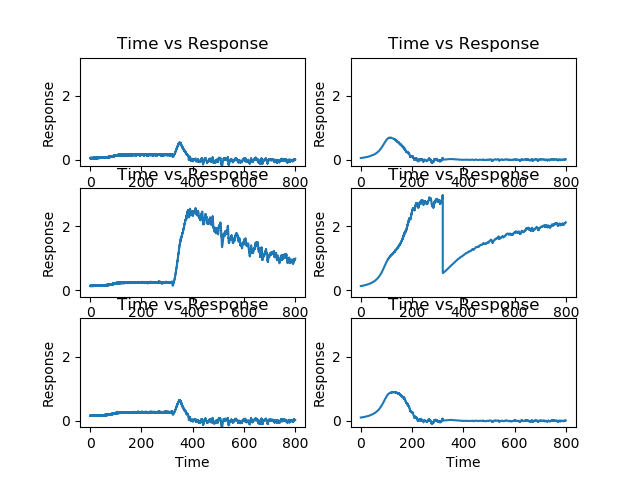
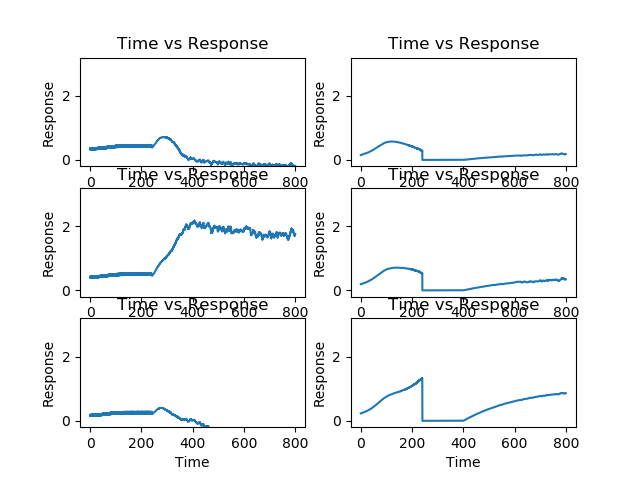
10:08 06/14/22

diff --git a/bcm_ttx_network_i0.py b/bcm_ttx_network_i0.py
@@ -16,7 +16,7 @@ import matplotlib.pyplot as plt
 
 class BCMNeuron:
     def __init__(self, lgn_l, lgn_r, patterns, p=2, tau_w=10, tau_theta=1, dt=0.01, eps=0,
-                 c0=50, condition='NR', iterations=80000, ttx_in = 0.40, ttx_gone =0.40, tau_ttx=200,
+                 c0=50, condition='NR', iterations=100000, ttx_in = 0.30, ttx_gone =0.50, tau_ttx=300,
                  contra_factor =2, we=1, wi=0.3):
         self.lgn_l = lgn_l  # Number of LGN-cortical input fibers from left eye
         self.lgn_r = lgn_r  # Number of LGN-cortical input fibers from right eye
